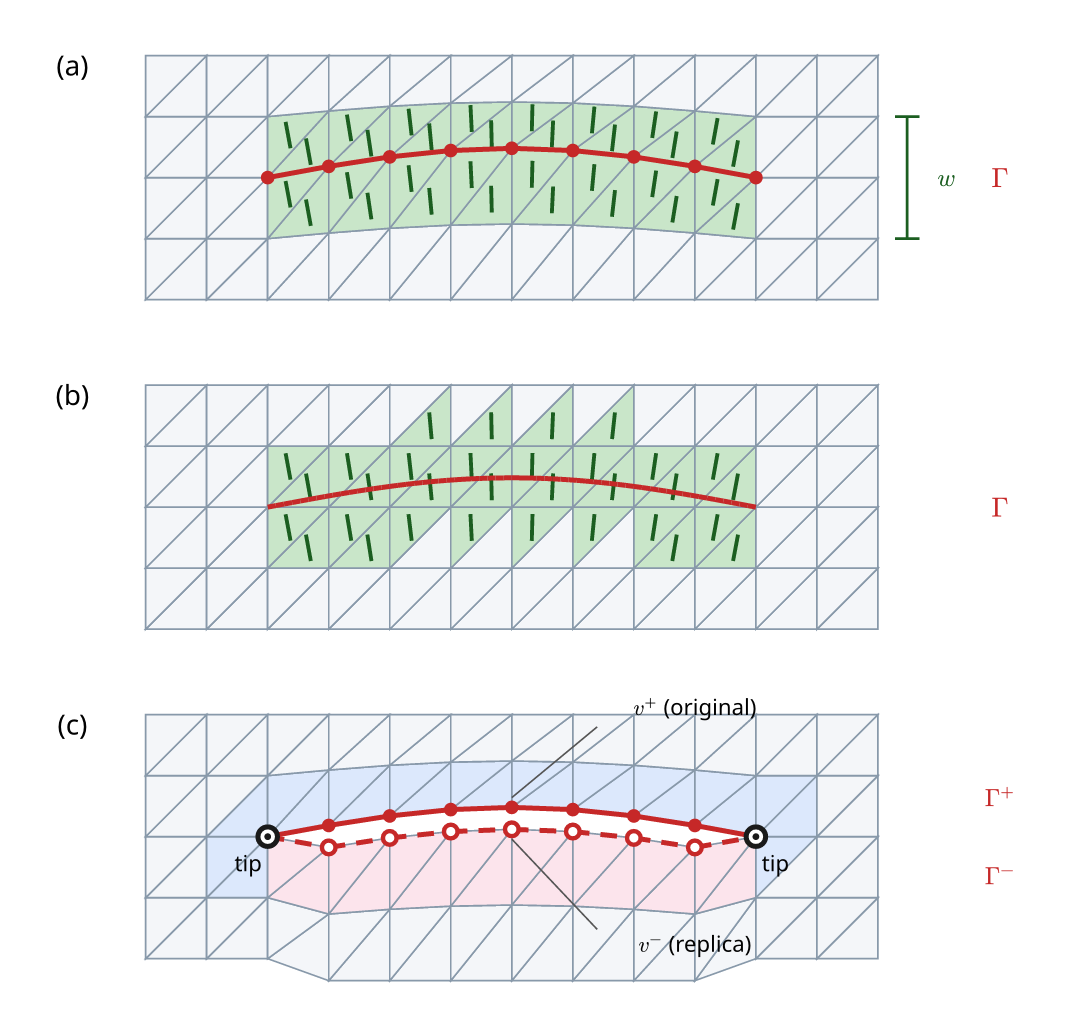
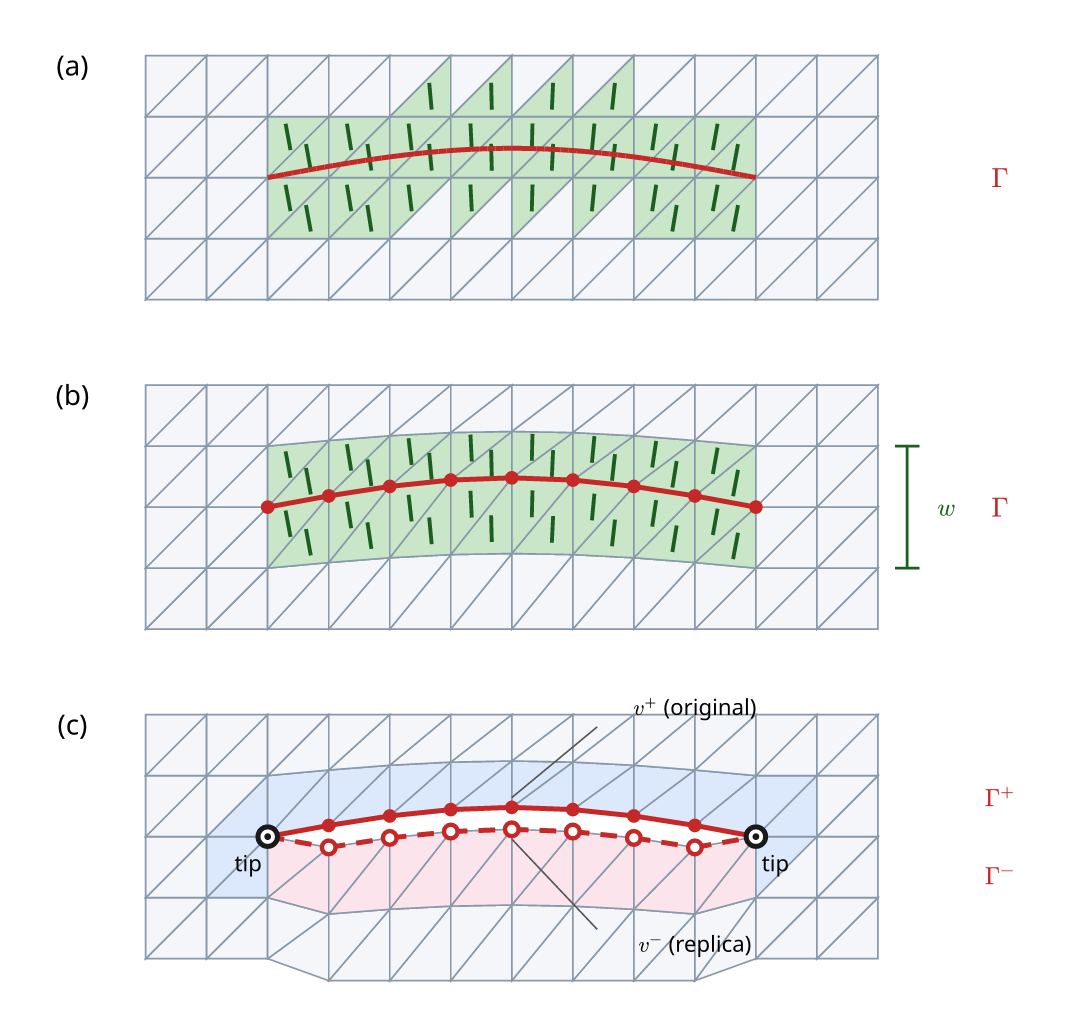
Faults note: the painted band first in the anatomy figure
Panel order now follows the table's columns — the mesh untouched, then
the mesh made to conform, then the cut — with caption, alt text and
the prose references swapped to match.

Underworld development team with AI support from Claude Code

Claude-Session: https://claude.ai/code/session_01RzK7JXSxsc2GoG7TGnQgUS

diff --git a/articles/putting-a-fault-in-a-mesh/putting-a-fault-in-a-mesh.md b/articles/putting-a-fault-in-a-mesh/putting-a-fault-in-a-mesh.md
@@ -41,8 +41,6 @@ There are lots of different potential solutions to this difficulty. They include
 
 ## Faults in numerical models 
 
-<!-- Don't rewrite this -->
-
 Localisation is something a rheology produces all by itself: if we give the material a yield stress or a strain-rate-weakening viscosity, shear bands appear where the stress requires them, with an orientation determined by the stress, and at whatever width the physics and the mesh between them allow. Do we really need to do anything more than this to represent faults ? The answer is yes and there are two main reasons. 
 
 First, a fault is not in the same category as a shear band or a damage-zone. At the lithospheric scale a fault is persistent through changes in the tectonic loading.  Faults localise far more sharply than any band a lithosphere-scale mesh resolves, down to a gouge zone of metres or even less. They are self-reinforcing: once a fault has accumulated slip it has juxtaposed distinct rock units; the weakness becomes structural and persistent even when the load is absent. Faults have history.
@@ -53,19 +51,12 @@ That is why it is common to impose plate boundaries in a mantle model as prior k
 
 It is also why crustal models of stress build-up and release always try to include known faults. They are very fine-scale structures, they reflect complex geological history and they are not simply emergent from the imposed loading. 
 
-<!-- /Don't rewrite this -->
-
-
-
 
 ## Describe the fault not the implementation
 
-These are two separate decisions and the machinery keeps them separate. It is the thesis of both @10.1126/science.267.5199.838 and @10.5194/se-10-969-2019: what the fault surface is, and what the solver is asked to do with it, are distinct choices. The first is a statement about the Earth: here is my fault surface, sampled as a polyline in two dimensions or a triangulated sheet in three, curved as it likes. The second is a modelling choice: this surface is to become a slippery interface, or a weak band of a stated width, or a direction of easy shear painted into the rheology. The same surface supports all of them and is agnostic to the implementation.
+The fault geometry and its numerical representation ought to be decoupled as far as possible. 
+It is the thesis of both @10.1126/science.267.5199.838 and @10.5194/se-10-969-2019: what the fault surface is, and what the solver is asked to do with it, are distinct choices. The first is a statement about the Earth: this is the fault surface, sampled as a polyline in two dimensions or a triangulated sheet in three, curved as it likes. The second is a modelling choice: this surface is to become a slippery interface, or a weak band of a stated width, or a direction of easy shear painted into the rheology. The same surface supports all of them and is agnostic to the implementation.
 
-
-<!-- All anticipation of the next section
-That separation makes the construction simple. The fault's own discretisation builds the mesh that is added: the band's vertices are offsets of the fault's own points, so there is no remesh and no search for where the fault went. A mesh generator is still needed where faults meet and have to be merged or cut, but it is not asked to invent the fault.
-<!-- Grrr ends -->
 
 ```{figure} figures/s_fault_geometry.png
 :name: fig-s-fault-geometry
@@ -79,14 +70,14 @@ A synthetic fault network that we use to validate the different fault algorithms
 
 ## Three implementations
 
-There is no perfect choice in how we model a fault in a geodynamic context and that means keeping several possible choices on hand to see which one works best for a specific set-up. 
+There is no perfect choice in how we model a fault in a geodynamic context and that means keeping several possible choices on hand to see which one works best for a specific problem. 
 Underworld3 offers three: a weak zone, a weak zone with a direction, and a cut. Each of them can be built on the unstructured mesh, or on a mesh modified to conform to the fault.
 
-| | mesh untouched | mesh conforms to the fault |
+| | Mesh untouched | Mesh conforms to the fault |
 |---|---|---|
-| weak zone | painted band — the mesh sets the width | ribbon — the width is yours |
-| TI weak zone | painted, director from the distance gradient | TI ribbon |
-| cut | XFEM: enrichment functions carry the jump through the elements; not in Underworld | split nodes |
+| Weak zone | painted band — the mesh sets the width | ribbon — the width is prescribed |
+| TI weak zone | painted, director from the distance gradient | TI ribbon — the width is prescribed |
+| Cut | XFEM: enrichment functions carry the jump through the elements (not in Underworld) | split nodes with additional degrees of freedom |
 
 The **non-conforming, transversely isotropic (TI)** rheology requires no changes to the mesh to represent the mechanics of the fault. It simply creates a near-fault band of material that has a lower frictional strength parallel to the fault. There is a zone of weakness that depends on the perpendicular distance to the *fault object*, and the internal orientation is given by the perpendicular vector to the fault surface. The band is whichever cells fall within $w/2$ of the fault, so its width is set by the mesh as much as by $w$. The resulting zone of weakness crosses element boundaries and can produce anomalous stress concentrations along the fault. These are mitigated at the large scale by refining the triangulation and smoothing the fault's influence function but they never disappear [@10.1016/j.pepi.2020.106637]. This is the representation of @10.1002/2014JB011813 and of @10.5194/se-10-969-2019.
 
@@ -100,12 +91,12 @@ The **split** algorithm is the one that embraces the notion of the fault as an e
 
 ```{figure} figures/fault-anatomy.png
 :name: fig-fault-anatomy
-:alt: Three panels, each the same rectangular triangulation twelve cells across and four deep, pale grey, stacked vertically. (a) The grid is gently bowed upward in its middle rows so that a red trace with nine dots runs along mesh edges as a shallow arch across the middle two thirds; the cells immediately above and below the arch are tinted green, each with a short dark-green stroke perpendicular to the local trace; a bracket at the right marks the two-cell band height as w. (b) The grid is flat and the same red arch is drawn across it without dots, cutting through the triangles; the tinted cells form a ragged band of the same width, two rows deep on the flanks and three at the crest, with a saw-toothed outline, each with a stroke tilted perpendicular to the arch. (c) The bowed grid again, with the row of cells above the arch tinted pale blue and the row below pale pink; the pink block has dropped, so the red line has opened into two — a solid upper arch with seven filled dots labelled v-plus (original) and Gamma-plus, and a dashed lower arch with open circles labelled v-minus (replica) and Gamma-minus — still meeting at a black ringed vertex labelled tip at each end, with the cells at the two ends sheared where the block has dropped.
+:alt: Three panels, each the same rectangular triangulation twelve cells across and four deep, pale grey, stacked vertically. (a) The grid is flat and a red arch is drawn across the middle two thirds without dots, cutting through the triangles; the tinted green cells form a ragged band around it, two rows deep on the flanks and three at the crest, with a saw-toothed outline, each with a short dark-green stroke tilted perpendicular to the arch. (b) The grid is gently bowed upward in its middle rows so that the same red arch, now with nine dots, runs along mesh edges; the cells immediately above and below it are tinted green, each with a stroke perpendicular to the local trace; a bracket at the right marks the two-cell band height as w. (c) The bowed grid again, with the row of cells above the arch tinted pale blue and the row below pale pink; the pink block has dropped, so the red line has opened into two — a solid upper arch with seven filled dots labelled v-plus (original) and Gamma-plus, and a dashed lower arch with open circles labelled v-minus (replica) and Gamma-minus — still meeting at a black ringed vertex labelled tip at each end, with the cells at the two ends sheared where the block has dropped.
 
-One fault, three strategies, on one mesh. (a) The ribbon: the mesh is bent so that the trace runs along element edges, and the band is the cells either side of it, each carrying a director; nothing is duplicated and every field is continuous. (b) The non-conforming paint: the same trace and the same width across the flat grid, where the band is whichever cells fall within $w/2$ of it. (c) The split, on the bent mesh: each interior vertex of the chain is duplicated and the cells on the Minus side are rewired to the replica; the tips are not duplicated. The copies are coincident — the lower block is pulled away only so that they can be seen.
+One fault, three strategies, on one mesh. (a) The non-conforming paint: the trace across the flat grid, and the band is whichever cells fall within $w/2$ of it. (b) The ribbon: the mesh is bent so that the same trace runs along element edges, and the band is the cells either side of it, each carrying a director; nothing is duplicated and every field is continuous. (c) The split, on the bent mesh: each interior vertex of the chain is duplicated and the cells on the Minus side are rewired to the replica; the tips are not duplicated. The copies are coincident — the lower block is pulled away only so that they can be seen.
 ```
 
-[](#fig-fault-anatomy) compares the three strategies on one mesh. Panel (b) shows the fault running through the mesh with elements identified as fault / not-fault depending on their centroid distance to the fault. Panel (a) shows the ribbon near the fault constructed so that the fault volume itself is defined by element boundaries.  Panel (c) is what the split does. The trace has first been made a chain of element edges, so that the two cells at every facet share it and every field is continuous across it, as anywhere else in the mesh. The split then duplicates each interior vertex of the chain. The original stays with the cells on one side, which we label Plus; the cells on the other side, Minus, are rewired to a replica at the same position. In this simple example, no elements are added or divided, but, across the fault, the two sides no longer share a degree of freedom, so the velocity is free to jump.
+[](#fig-fault-anatomy) compares the three strategies on one mesh. Panel (a) shows the fault running through the mesh with elements identified as fault / not-fault depending on their centroid distance to the fault. Panel (b) shows the ribbon near the fault constructed so that the fault volume itself is defined by element boundaries.  Panel (c) is what the split does. The trace has first been made a chain of element edges, so that the two cells at every facet share it and every field is continuous across it, as anywhere else in the mesh. The split then duplicates each interior vertex of the chain. The original stays with the cells on one side, which we label Plus; the cells on the other side, Minus, are rewired to a replica at the same position. In this simple example, no elements are added or divided, but, across the fault, the two sides no longer share a degree of freedom, so the velocity is free to jump.
 
 The fault is just the pair of surfaces and the condition we impose between each vertex and its replica. The simplest condition is no-opening: the two normal velocities of a pair are equal and the tangential velocities are free, which is a frictionless slippery interface. The slip rate is read off the pair as the tangential jump. A friction law is a relation between that jump and the traction the pair carries, and it lives on the pair as well.
 
